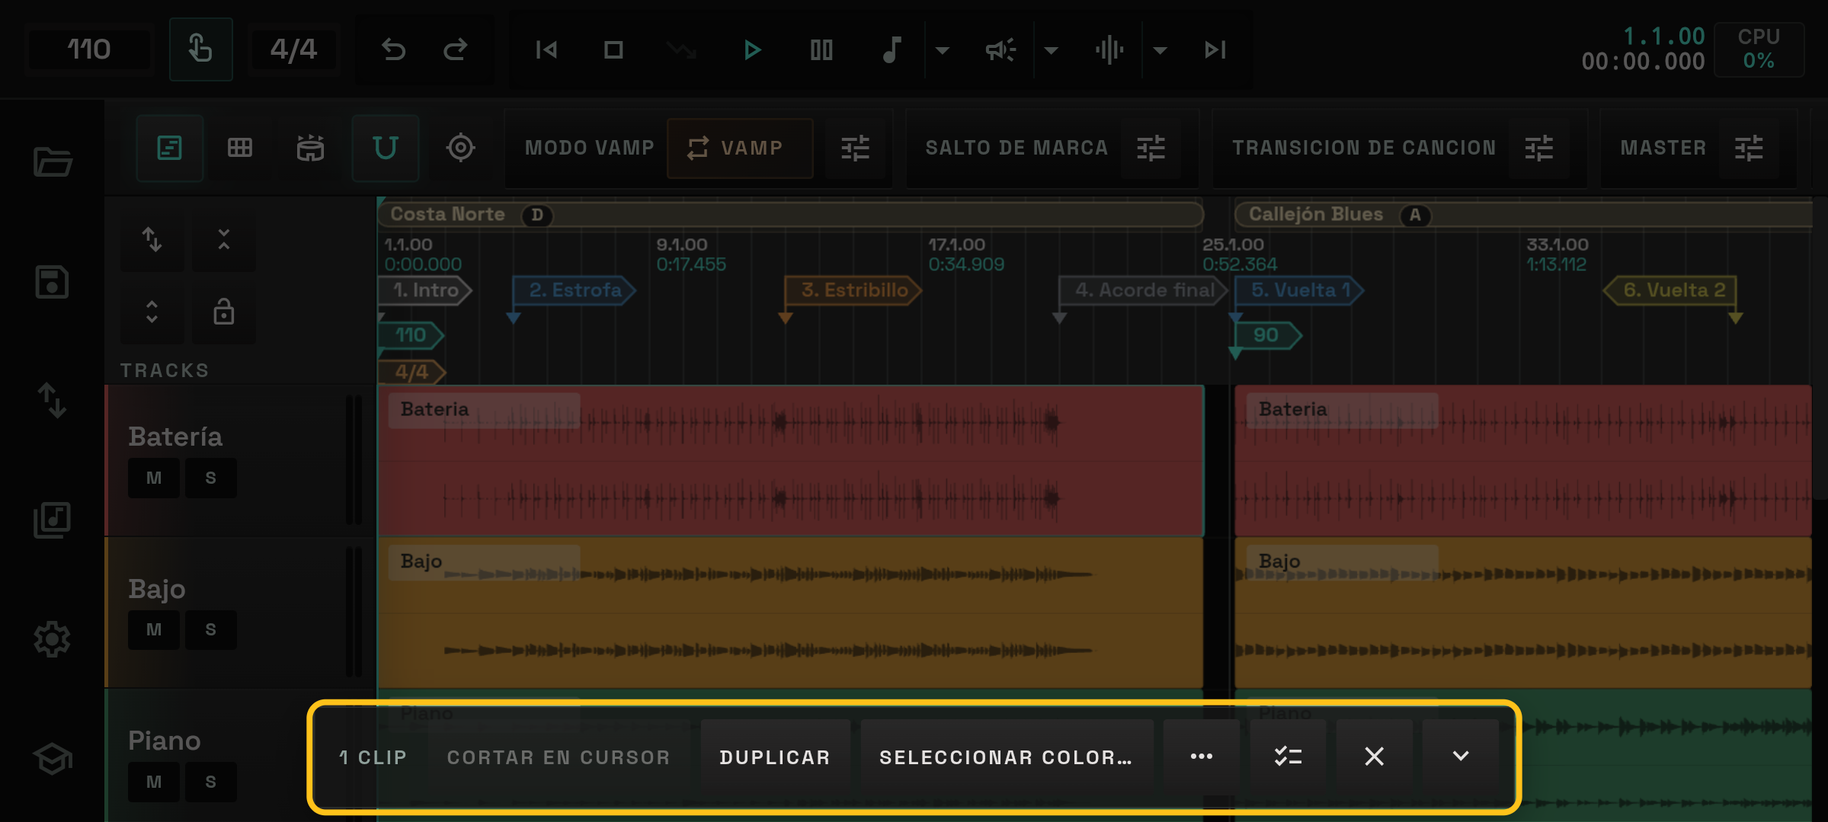
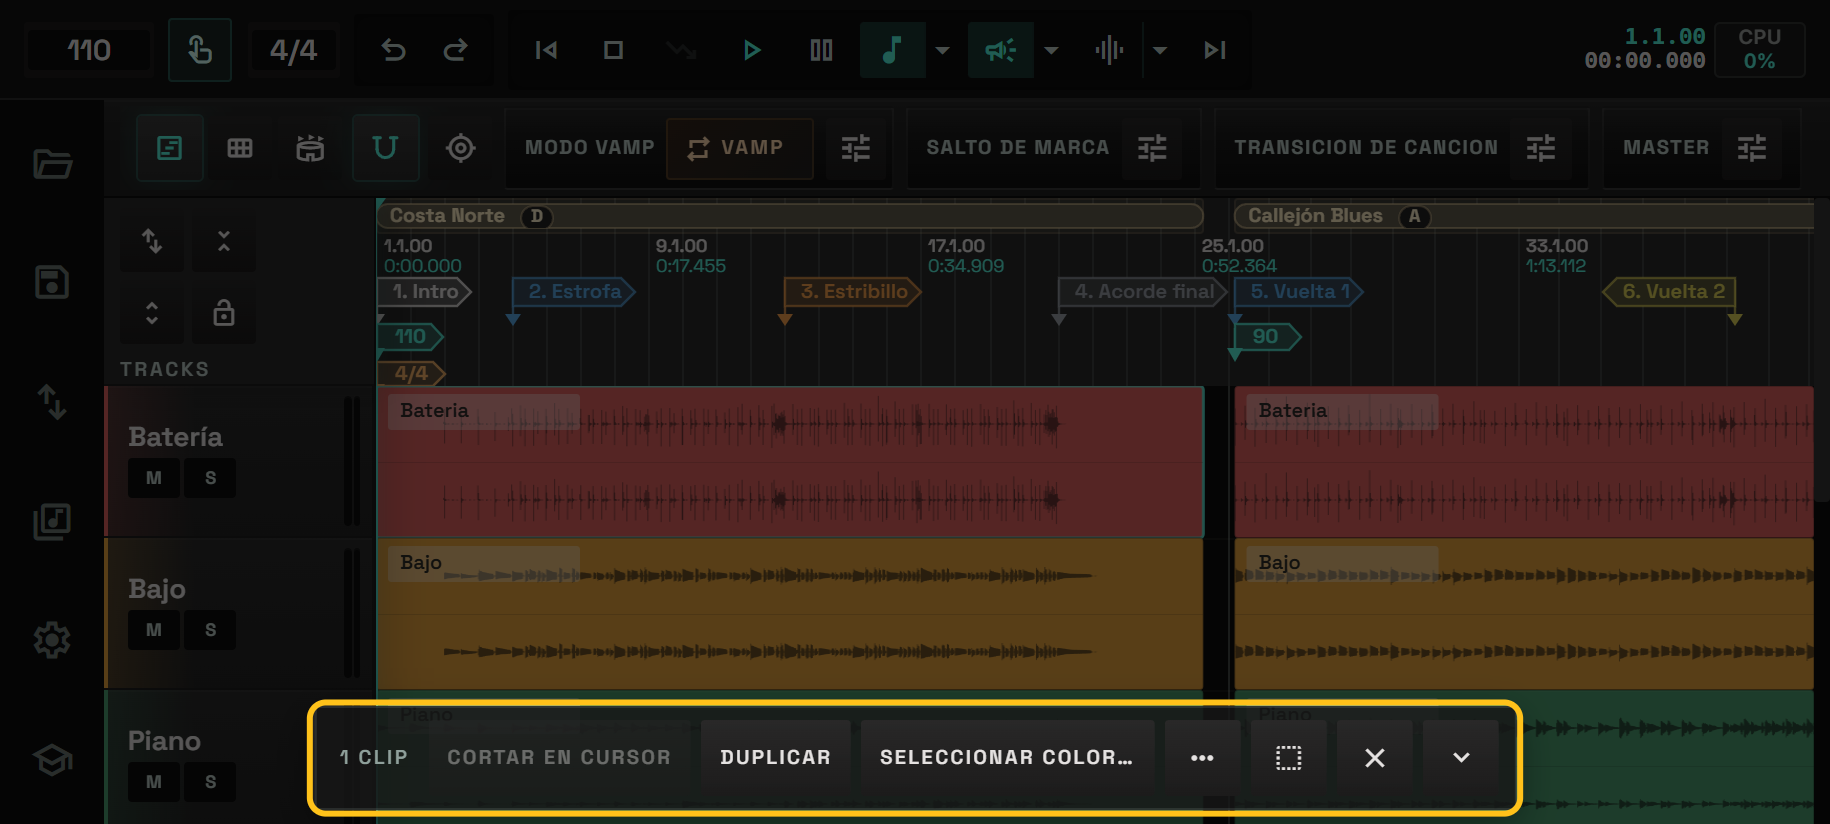
docs(guide): capturas del móvil con el botón «Seleccionar por área»
track-selected, track-mix y clip-selected (ES/EN) seguían con el icono
viejo de «Seleccionar varias». Se rehacen desde la build de escritorio en
modo teléfono (user agent de Android, táctil y 915x412 @2, los 1828x822 del
emulador), con la misma canción de demo y las mismas marcas que el arnés de
Android: un APK de depuración no se puede compilar en Windows por Whisper.
Paso nuevo del arnés: «mobile 1.15: selection bar (phone layout)».

diff --git a/tests/e2e/specs/guide-shots.e2e.ts b/tests/e2e/specs/guide-shots.e2e.ts
@@ -74,9 +74,12 @@ async function viewport() {
   }));
 }
 
+/** Where shot() writes; the phone-layout step points it at the mobile set. */
+let shotDir = outDir;
+
 async function shot(name: string, crop?: Crop, drawn: Box[] = []) {
   await browser.pause(600);
-  const file = path.join(outDir, `${name}.png`);
+  const file = path.join(shotDir, `${name}.png`);
   const png = Buffer.from(await browser.takeScreenshot(), "base64");
   if (!crop) {
     await sharp(png).toFile(file);
@@ -2167,5 +2170,84 @@ describe("user guide screenshots", function () {
     }
     await (await $(viewBtn(1))).click();
     await browser.pause(1200);
+  });
+
+  // The PHONE layout from this desktop build: the frontend switches to it from
+  // an Android user agent. For the mobile images that only need the phone UI
+  // (the selection bar) when no debug APK can be built — whisper-rs-sys does
+  // not cross-compile for Android on Windows. Same marks as
+  // tests/android/guide-shots/shots.ts (trackSelect, clipSelect), same demo
+  // song, and a 915x412 @2 viewport, the emulator's 1828x822 frames. It
+  // changes the page for good, so it is the LAST step.
+  it("mobile 1.15: selection bar (phone layout)", async () => {
+    const phoneDir = path.join(repoRoot, "apps", "website", "public", "guide", UI_LANG === "en" ? "mobile-en" : "mobile");
+    mkdirSync(phoneDir, { recursive: true });
+    shotDir = phoneDir;
+    await cdp("Emulation.setUserAgentOverride", {
+      userAgent:
+        "Mozilla/5.0 (Linux; Android 14; Pixel 8) AppleWebKit/537.36 (KHTML, like Gecko) Chrome/130.0 Mobile Safari/537.36",
+      platform: "Linux armv8l",
+    });
+    await cdp("Emulation.setTouchEmulationEnabled", { enabled: true, maxTouchPoints: 5 });
+    await cdp("Emulation.setDeviceMetricsOverride", { width: 915, height: 412, deviceScaleFactor: 2, mobile: true });
+    await runInPage(() => window.location.reload());
+    await browser.pause(5000);
+    await AppPage.waitUntilBooted();
+    // The reload puts the stored language back: pin English again.
+    if (UI_LANG === "en") {
+      await useAppLocale("en");
+      await AppPage.waitUntilBooted();
+    }
+    // The phone landing, then its demo song (the one the mobile set shows).
+    if (await rectOf(".lt-timeline-shell")) {
+      await (await $(`${tour("side-nav-sessions")}`)).click().catch(() => undefined);
+    }
+    for (let i = 0; i < 20 && !(await rectOf(tour("landing-demo-song"))); i++) await browser.pause(500);
+    await (await $(tour("landing-demo-song"))).click();
+    for (let i = 0; i < 60 && !(await rectOf(".lt-timeline-shell")); i++) await browser.pause(500);
+    await browser.pause(6000);
+    await dismissVideoNotice();
+    const tap = async (x: number, y: number) => {
+      await cdp("Input.dispatchTouchEvent", { type: "touchStart", touchPoints: [{ x, y }] });
+      await cdp("Input.dispatchTouchEvent", { type: "touchEnd", touchPoints: [] });
+      await browser.pause(900);
+    };
+    const centre = async (selector: string) => {
+      const r = await rectOf(selector);
+      if (!r) throw new Error(`${selector} not visible`);
+      return { x: r.x + r.w / 2, y: r.y + r.h / 2 };
+    };
+
+    // A selected track and its action bar.
+    const name = await tag(".lt-track-header .lt-track-title-row strong", "phone-track");
+    const n = await centre(name);
+    await tap(n.x, n.y);
+    const bar = ".lt-mobile-selection-actions";
+    await annotatedShot("track-selected", [
+      { selector: ".lt-track-header.is-selected", n: 1 },
+      { selector: `${bar} .lt-mobile-selection-actions-title`, n: 2, badge: "above" },
+      { selector: `${bar} .lt-mobile-selection-action`, nth: 0, n: 3, badge: "above" },
+      { selector: `${bar} button[aria-label="${L("Más acciones")}"]`, n: 4, badge: "above" },
+      { selector: `${bar} button[aria-label="${L("Mezcla")}"]`, n: 5, badge: "above" },
+      { selector: `${bar} button[aria-label="${L("Seleccionar por área")}"]`, n: 6, badge: "above" },
+      { selector: `${bar} button[aria-label="${L("Quitar selección")}"]`, n: 7, badge: "above" },
+      { selector: `${bar} button[aria-label="${L("Ocultar acciones")}"]`, n: 8, badge: "above" },
+    ]);
+    await (await $(`${bar} button[aria-label="${L("Mezcla")}"]`)).click();
+    await browser.pause(800);
+    await annotatedShot("track-mix", [{ selector: ".lt-mobile-selection-mix", pad: 2 }], { style: "spotlight" });
+    await (await $(`${bar} button[aria-label="${L("Mezcla")}"]`)).click();
+    await browser.pause(500);
+    await (await $(`${bar} button[aria-label="${L("Quitar selección")}"]`)).click();
+    await browser.pause(800);
+
+    // A selected clip.
+    const row = await rectOf(".lt-track-header");
+    const song = await rectOf(".lt-region-hotspot");
+    if (!row || !song) throw new Error("no row/song on the phone screen");
+    await tap(song.x + song.w * 0.4, row.y + row.h / 2);
+    await annotatedShot("clip-selected", [{ selector: ".lt-mobile-selection-actions", pad: 2 }], { style: "spotlight" });
+    await (await $(`${bar} button[aria-label="${L("Quitar selección")}"]`)).click().catch(() => undefined);
+    shotDir = outDir;
   });
 });
